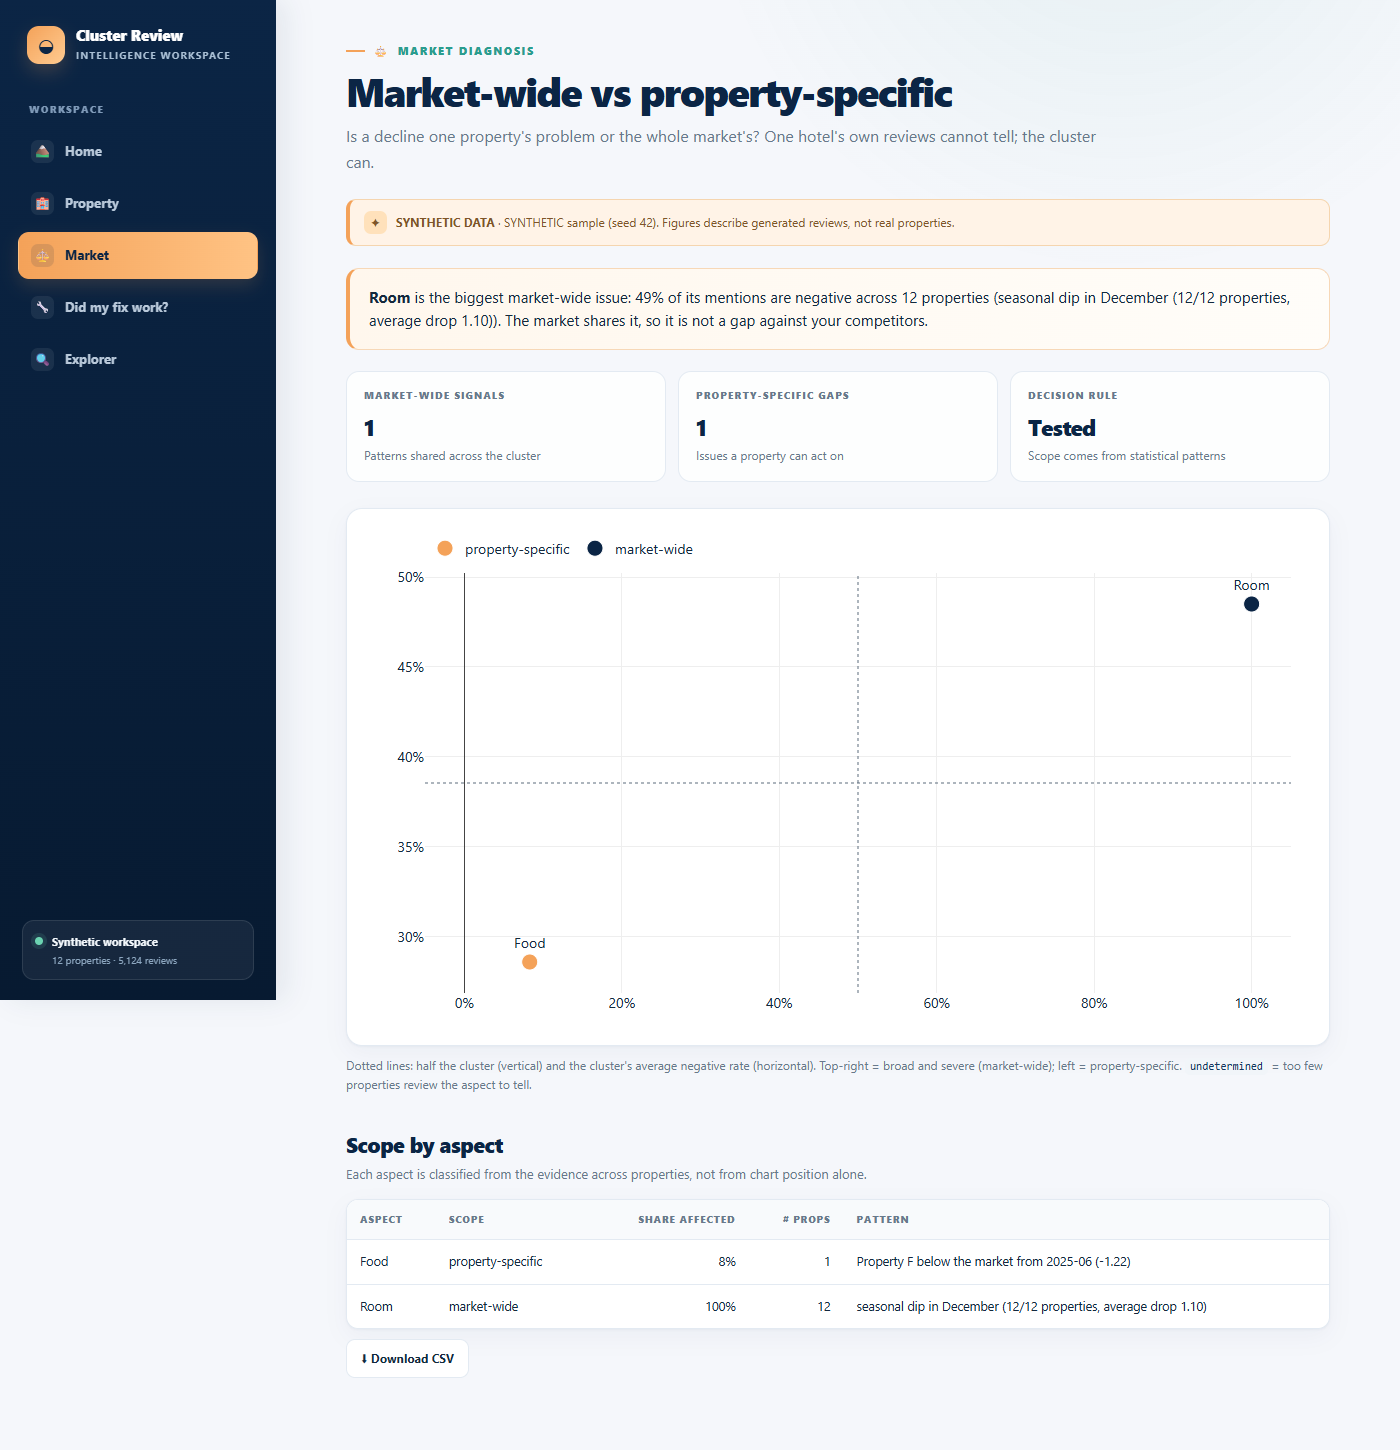
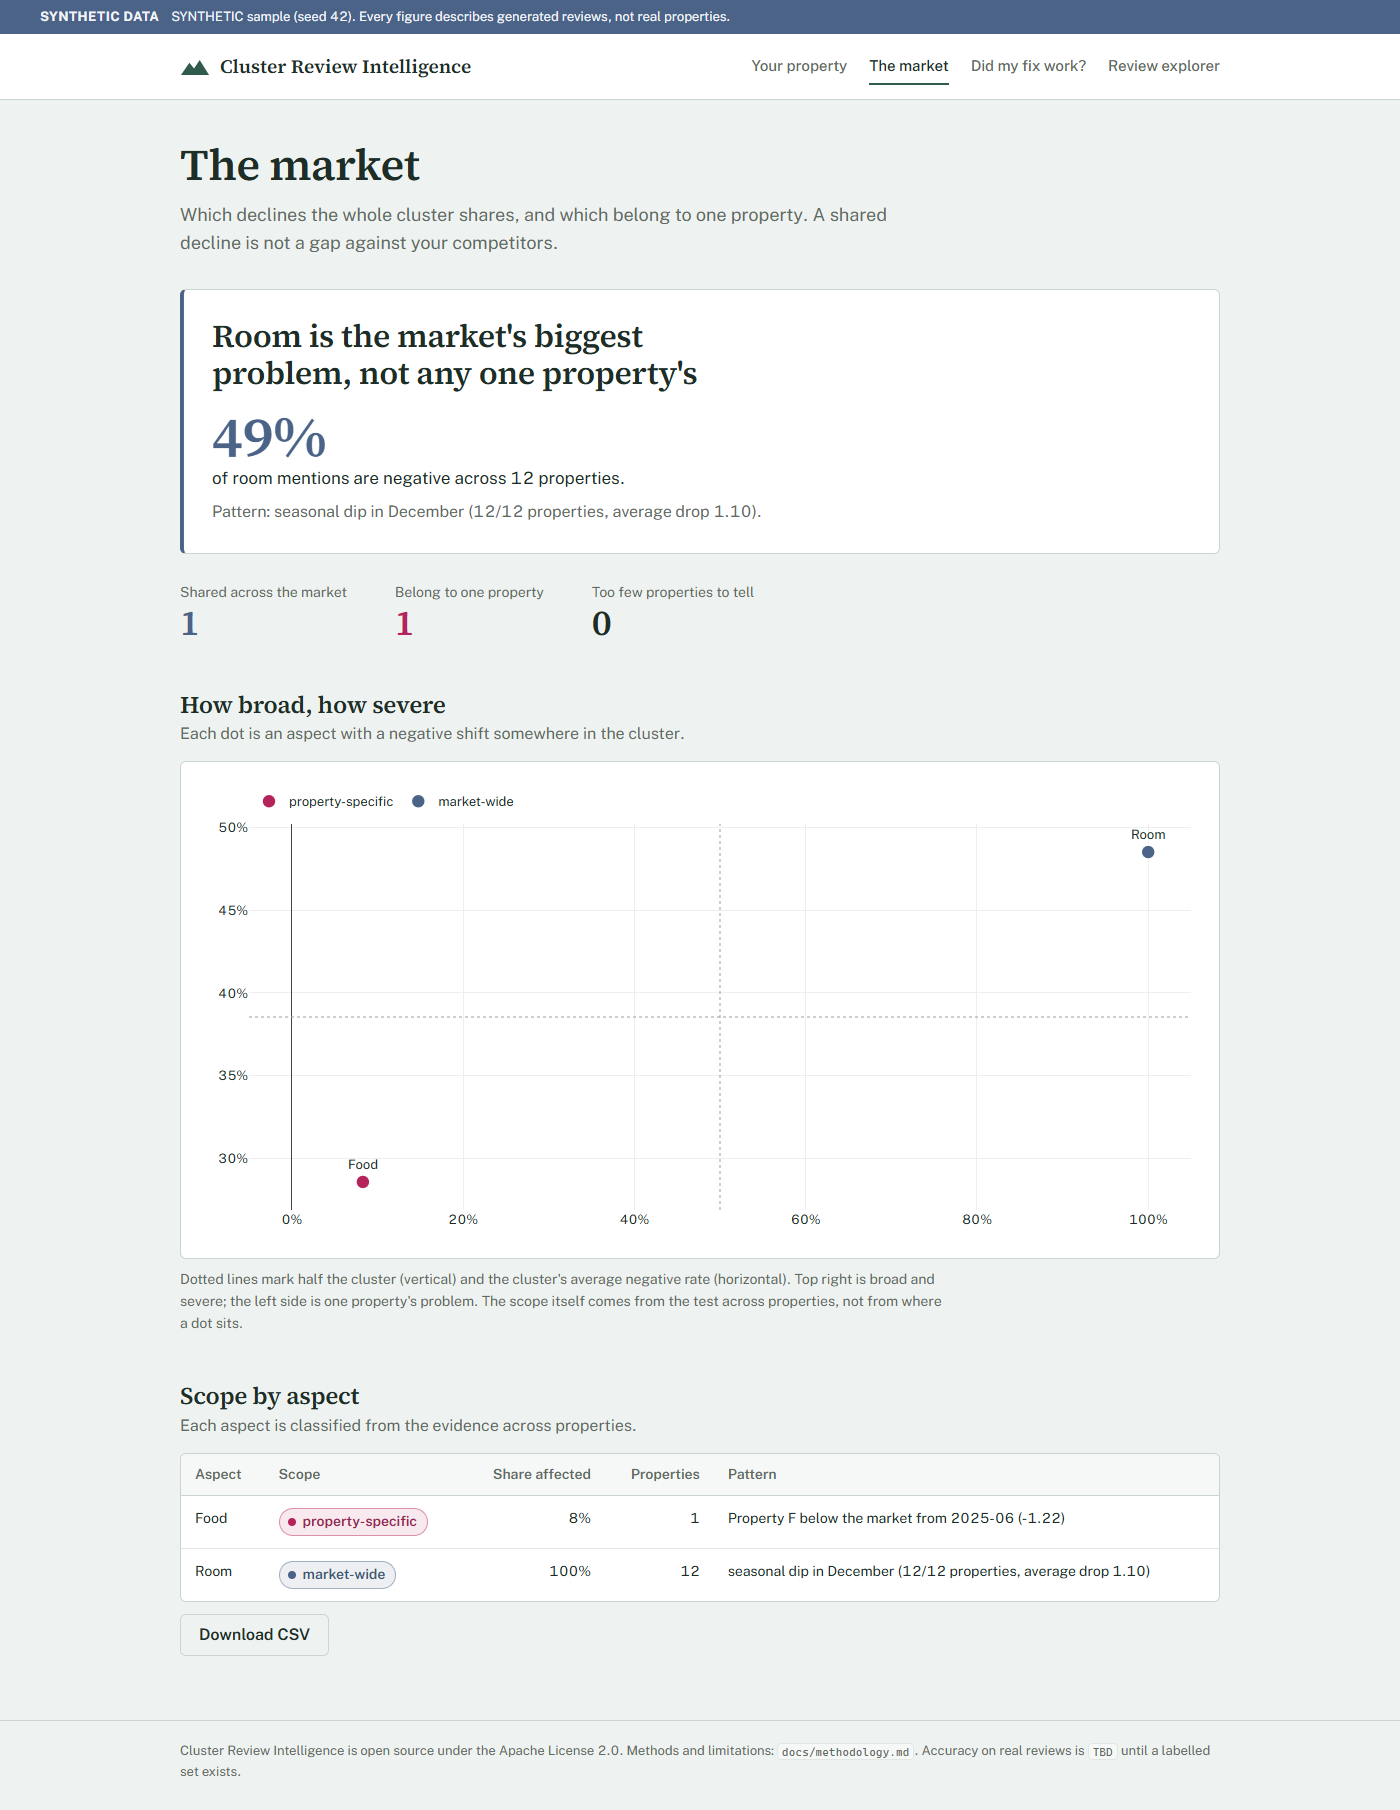
docs(web): document the design system, credit the fonts, new screenshots

diff --git a/web/README.md b/web/README.md
@@ -70,6 +70,33 @@ ignored build step and the response headers, and `package.json` pins Node.js 22.
 `output: "export"` produces a static deployment. The snapshot JSON ships in `public/`, so
 no build-time Python is needed. See `docs/DEPLOYMENT.md`.
 
+## Design
+
+One stylesheet (`app/globals.css`, no CSS framework) and one palette, mirrored for the
+charts in `lib/theme.ts`. Colours carry meaning, and the same meaning on every page:
+
+| Token | Hex | Means |
+|---|---|---|
+| `--deodar` | `#2E5B4C` | Better, ahead of the cluster, improved |
+| `--buransh` (rhododendron) | `#B4235A` | Worse, behind the cluster, *yours alone* |
+| `--slate` | `#4A6386` | The market, *everyone's*; also the SYNTHETIC strip |
+| `--stone` | `#97A39C` | Neutral, on par, not tested |
+| `--mist` / `--ink` | `#EEF2F0` / `#1F2D27` | Page background / text |
+
+- **Type:** Source Serif 4 for headings, Public Sans for everything else, both
+  self-hosted by `next/font` at build time (no requests to Google from the browser;
+  credits in `docs/CREDITS.md`). Numbers use tabular figures.
+- **Change split** (`ChangeSplit` in `components/ui.tsx`): the plain change, the
+  market's change over the same months, and what is left for the property alone, on a
+  shared zero. It is the product's question in one figure, so it appears on home,
+  `/property/` (top priority) and `/fix-check/`.
+- **SYNTHETIC label:** rendered once by `app/layout.tsx`, so no page can omit it.
+- **Shareable views:** `/property/` and `/fix-check/` keep their selections in the
+  query string, so the address bar is always a deep link to what is on screen.
+- **Accessibility:** skip link, visible `:focus-visible` outlines, labelled controls,
+  `aria-live` on results, scrollable tables reachable by keyboard; no layout wider than
+  the screen at 390 px.
+
 ## Notes
 
 - Dependencies are pinned (CLAUDE.md). Charts use Plotly.js (lazy-loaded client-side).

diff --git a/docs/CREDITS.md b/docs/CREDITS.md
@@ -7,6 +7,9 @@
 | `assets/banner.svg` | Original, hand-authored for this project | Project license (Apache-2.0). No photos.|
 | `docs/img/*.png`    | Generated by `scripts/make_figures.py`   | From SYNTHETIC data; reproducible.      |
 | `docs/screenshots/*_SYNTHETIC.png` | Screenshots of this project's own web app (`scripts/capture_screenshots.py`) | From SYNTHETIC data; project license. |
+| `web/app/icon.svg` and the header mark | Original, hand-authored for this project | Project license (Apache-2.0). |
+| Public Sans (web app body text) | U.S. Web Design System, via Google Fonts; self-hosted at build time by `next/font` | SIL Open Font License 1.1 |
+| Source Serif 4 (web app headings) | Adobe, via Google Fonts; self-hosted at build time by `next/font` | SIL Open Font License 1.1 |
 
 No scraped or stock photography is used anywhere in this repository. If any
 external asset is added later, it must be recorded in this table with its source
